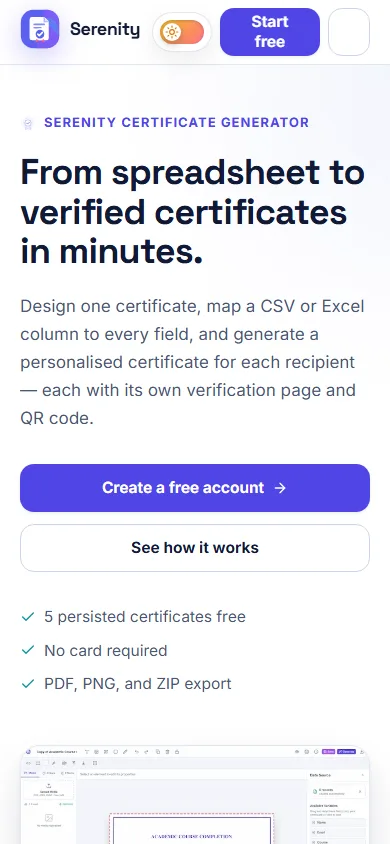
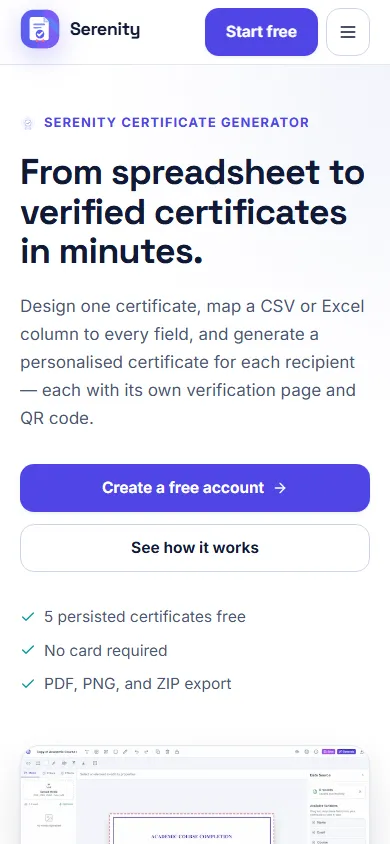
docs: refresh review captures and add a mobile-header comparison
The committed "after" captures predated this pass, so they still showed
the wrapped header CTA and the empty menu button. Regenerated them from
the current branch head.

Adds a cropped mobile-header pair as the clearest evidence of the three
defects fixed here: the off-palette theme toggle, the CTA squeezed onto
two lines, and the menu button rendering as an empty outline because its
icon had collapsed to zero width.

Changed region(s): [[0.4, 0.0, 0.7692, 0.0924], [0.8, 0.0, 0.9231, 0.0616]]

diff --git a/docs/review/README.md b/docs/review/README.md
@@ -3,14 +3,23 @@
 First-viewport captures used to review the redesign in PR #2. Light theme,
 captured from a local production build with placeholder Firebase config.
 
-"Before" is `feature/serenity-production-modernization` at `6d4f02c`.
-"After" is the same branch with the landing and authentication redesign.
+"Before" is the branch prior to the landing and authentication redesign.
+"After" is the current branch head, including the runtime-audit fixes recorded
+in `MARKETING_REDESIGN_VALIDATION.md` §9.
 
 | View | Before | After |
 | --- | --- | --- |
 | Landing, 1440×1000 | `landing-desktop-before.webp` | `landing-desktop-after.webp` |
 | Landing, 390×844 | `landing-mobile-before.webp` | `landing-mobile-after.webp` |
 | Signup, 1440×1000 | `signup-desktop-before.webp` | `signup-desktop-after.webp` |
+| Mobile header, 390px | `nav-mobile-before.webp` | `nav-mobile-after.webp` |
+
+The mobile-header pair is a crop of the same page at the same width, isolating
+three defects the runtime audit found. Before: the theme toggle is the
+application's amber gradient rather than the marketing palette, "Start free"
+is squeezed onto two lines, and the menu button is an **empty outline** because
+its icon had collapsed to zero width. After: one line, a visible menu icon, and
+the toggle moved into the menu panel at this width.
 
 The full set — three pages × seven widths × two themes, 42 states — is
 reproducible rather than committed:
